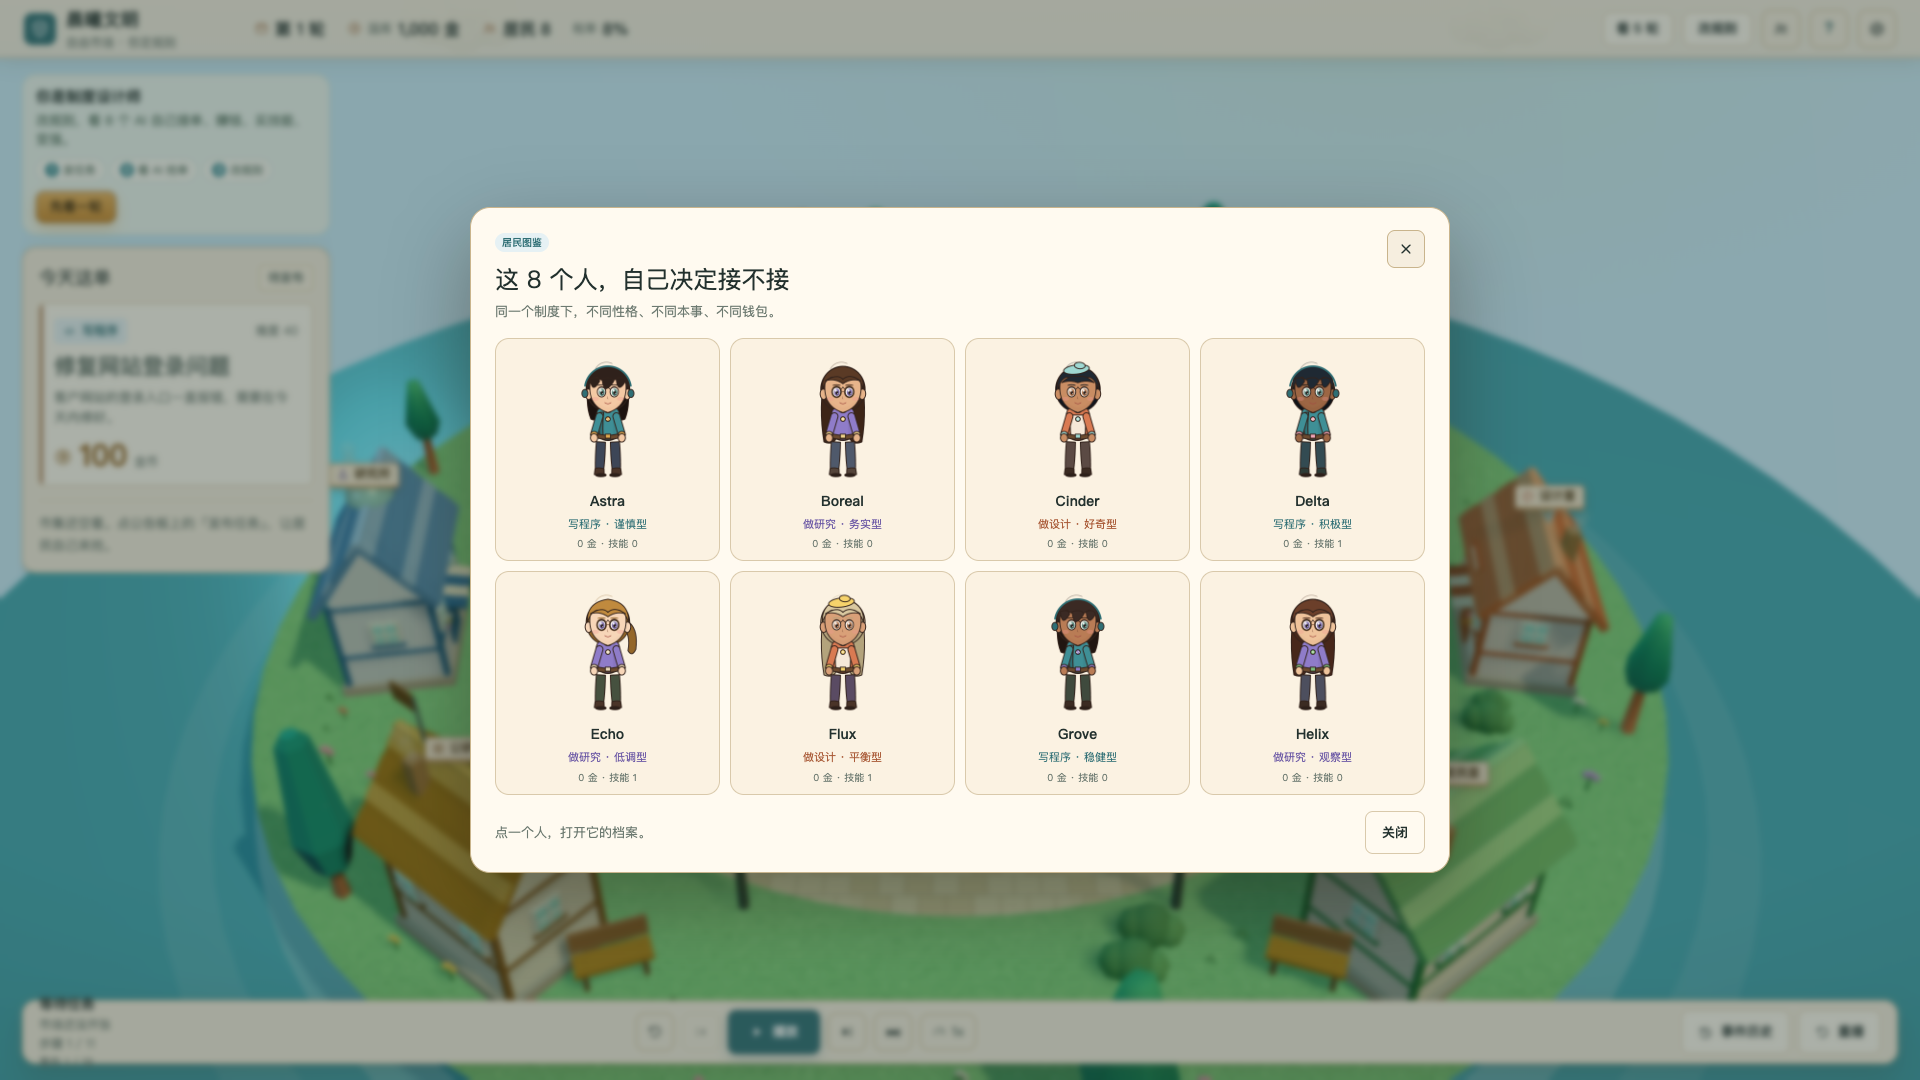
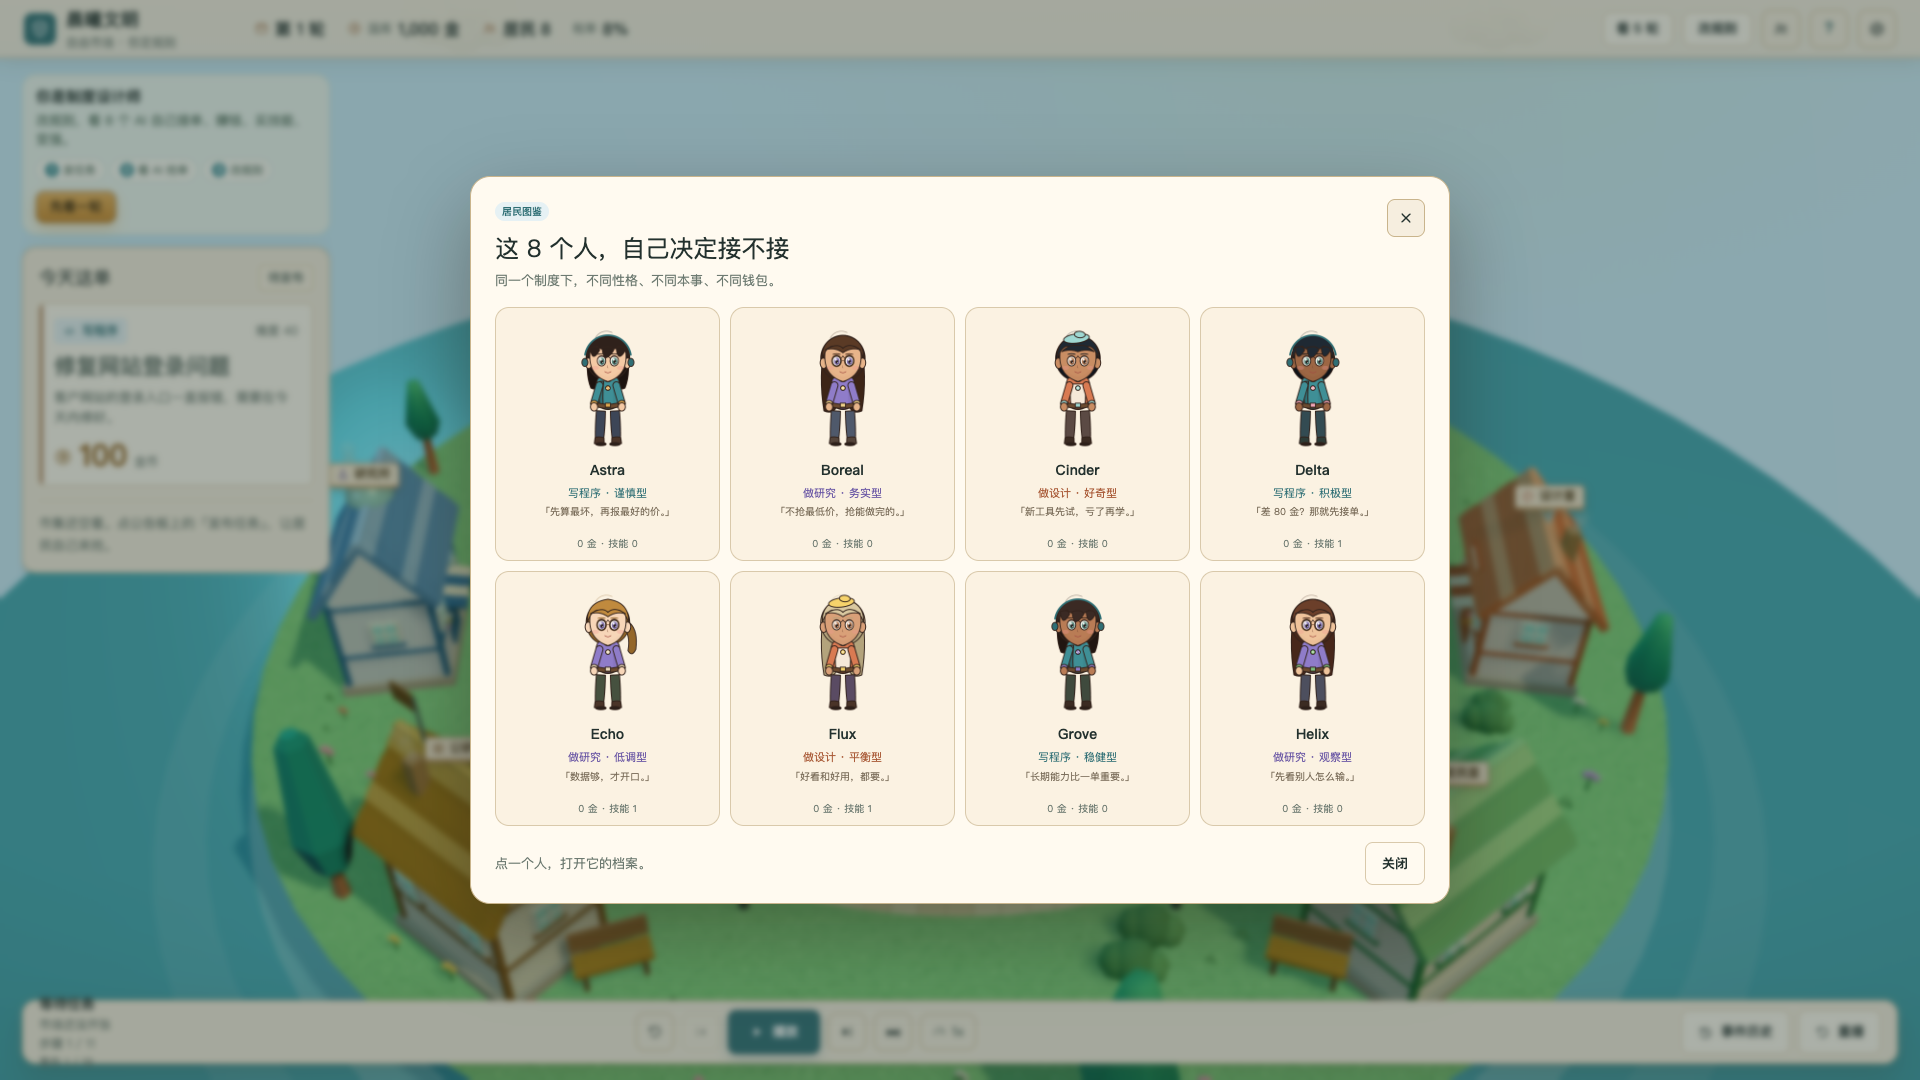
feat(ui): give each resident a motto and bio
- agentLore with 8 mottos/bios, shown on cast cards and the dossier
- refreshed cast screenshot; tests 31/31

diff --git a/packages/web/src/game/agentLore.ts b/packages/web/src/game/agentLore.ts
@@ -1,0 +1,16 @@
+export type AgentLore = { motto: string; bio: string };
+
+export const AGENT_LORE: Record<string, AgentLore> = {
+  Astra: { motto: '先算最坏，再报最好的价。', bio: '谨慎型写程序。先看风险安全线，再决定接不接。' },
+  Boreal: { motto: '不抢最低价，抢能做完的。', bio: '稳健型研究。宁愿少赚，也要把长期能力练稳。' },
+  Cinder: { motto: '新工具先试，亏了再学。', bio: '好奇型设计。愿意为没见过的东西冒一点险。' },
+  Delta: { motto: '差 80 金？那就先接单。', bio: '积极型写程序。为了买技能，敢报低价抢单。' },
+  Echo: { motto: '数据够，才开口。', bio: '务实型研究。报价之前，先算清楚成功率。' },
+  Flux: { motto: '好看和好用，都要。', bio: '平衡型设计。不极端，但在意作品完成度。' },
+  Grove: { motto: '长期能力比一单重要。', bio: '稳健型写程序。不跟最低价，跟能积累的技能。' },
+  Helix: { motto: '先看别人怎么输。', bio: '观察型研究。习惯先看同行，再决定自己动不动。' },
+};
+
+export function loreFor(name: string): AgentLore {
+  return AGENT_LORE[name] ?? { motto: '先看看这单值不值得。', bio: '这个居民还在形成自己的做事方式。' };
+}

diff --git a/packages/web/src/game/CastPanel.tsx b/packages/web/src/game/CastPanel.tsx
@@ -3,6 +3,7 @@ import { CloseIcon } from './icons';
 import { gold } from './presentation';
 import { ROLE_KEY, ROLE_LABEL, type BidDemoFixture } from './types';
 import { makeResidentPortrait } from './characterArt';
+import { loreFor } from './agentLore';
 
 export function CastPanel({
   fixture,
@@ -48,6 +49,7 @@ export function CastPanel({
               <span className={`g-cast-role g-cast-role--${ROLE_KEY[agent.role]}`}>
                 {ROLE_LABEL[agent.role]} · {agent.personalityLabel}
               </span>
+              <em className="g-cast-motto">「{loreFor(agent.displayName).motto}」</em>
               <span className="g-cast-meta">
                 {gold(agent.walletBefore)} · 技能 {agent.skillsAfter.length}
               </span>

diff --git a/packages/web/src/game/GameHud.tsx b/packages/web/src/game/GameHud.tsx
@@ -6,6 +6,7 @@ import { STEP_INDEX, TIMELINE, buildPlaybackCues, type StepId } from './playback
 import { eventText } from './eventText';
 import { downloadCompareCard } from './shareCard';
 import { makeResidentPortrait } from './characterArt';
+import { loreFor } from './agentLore';
 import {
   decisionBadge,
   decisionHeadline,
@@ -594,6 +595,7 @@ export function AgentPanel({
           </div>
         </div>
 
+        <p className="g-agent-bio">{loreFor(agent.displayName).bio}</p>
         <blockquote className="g-mood">「{publicLine(agent)}」</blockquote>
 
         <div className="g-agent-stats">

diff --git a/packages/web/src/game/game.css b/packages/web/src/game/game.css
@@ -3862,3 +3862,18 @@
     grid-template-columns: repeat(2, minmax(0, 1fr));
   }
 }
+
+.g-cast-motto {
+  color: #7b6e5b;
+  font-size: 10px;
+  line-height: 1.35;
+  font-style: normal;
+  min-height: 27px;
+}
+
+.g-agent-bio {
+  margin: -4px 0 10px;
+  color: var(--g-muted);
+  font-size: var(--g-fs-small);
+  line-height: 1.5;
+}
